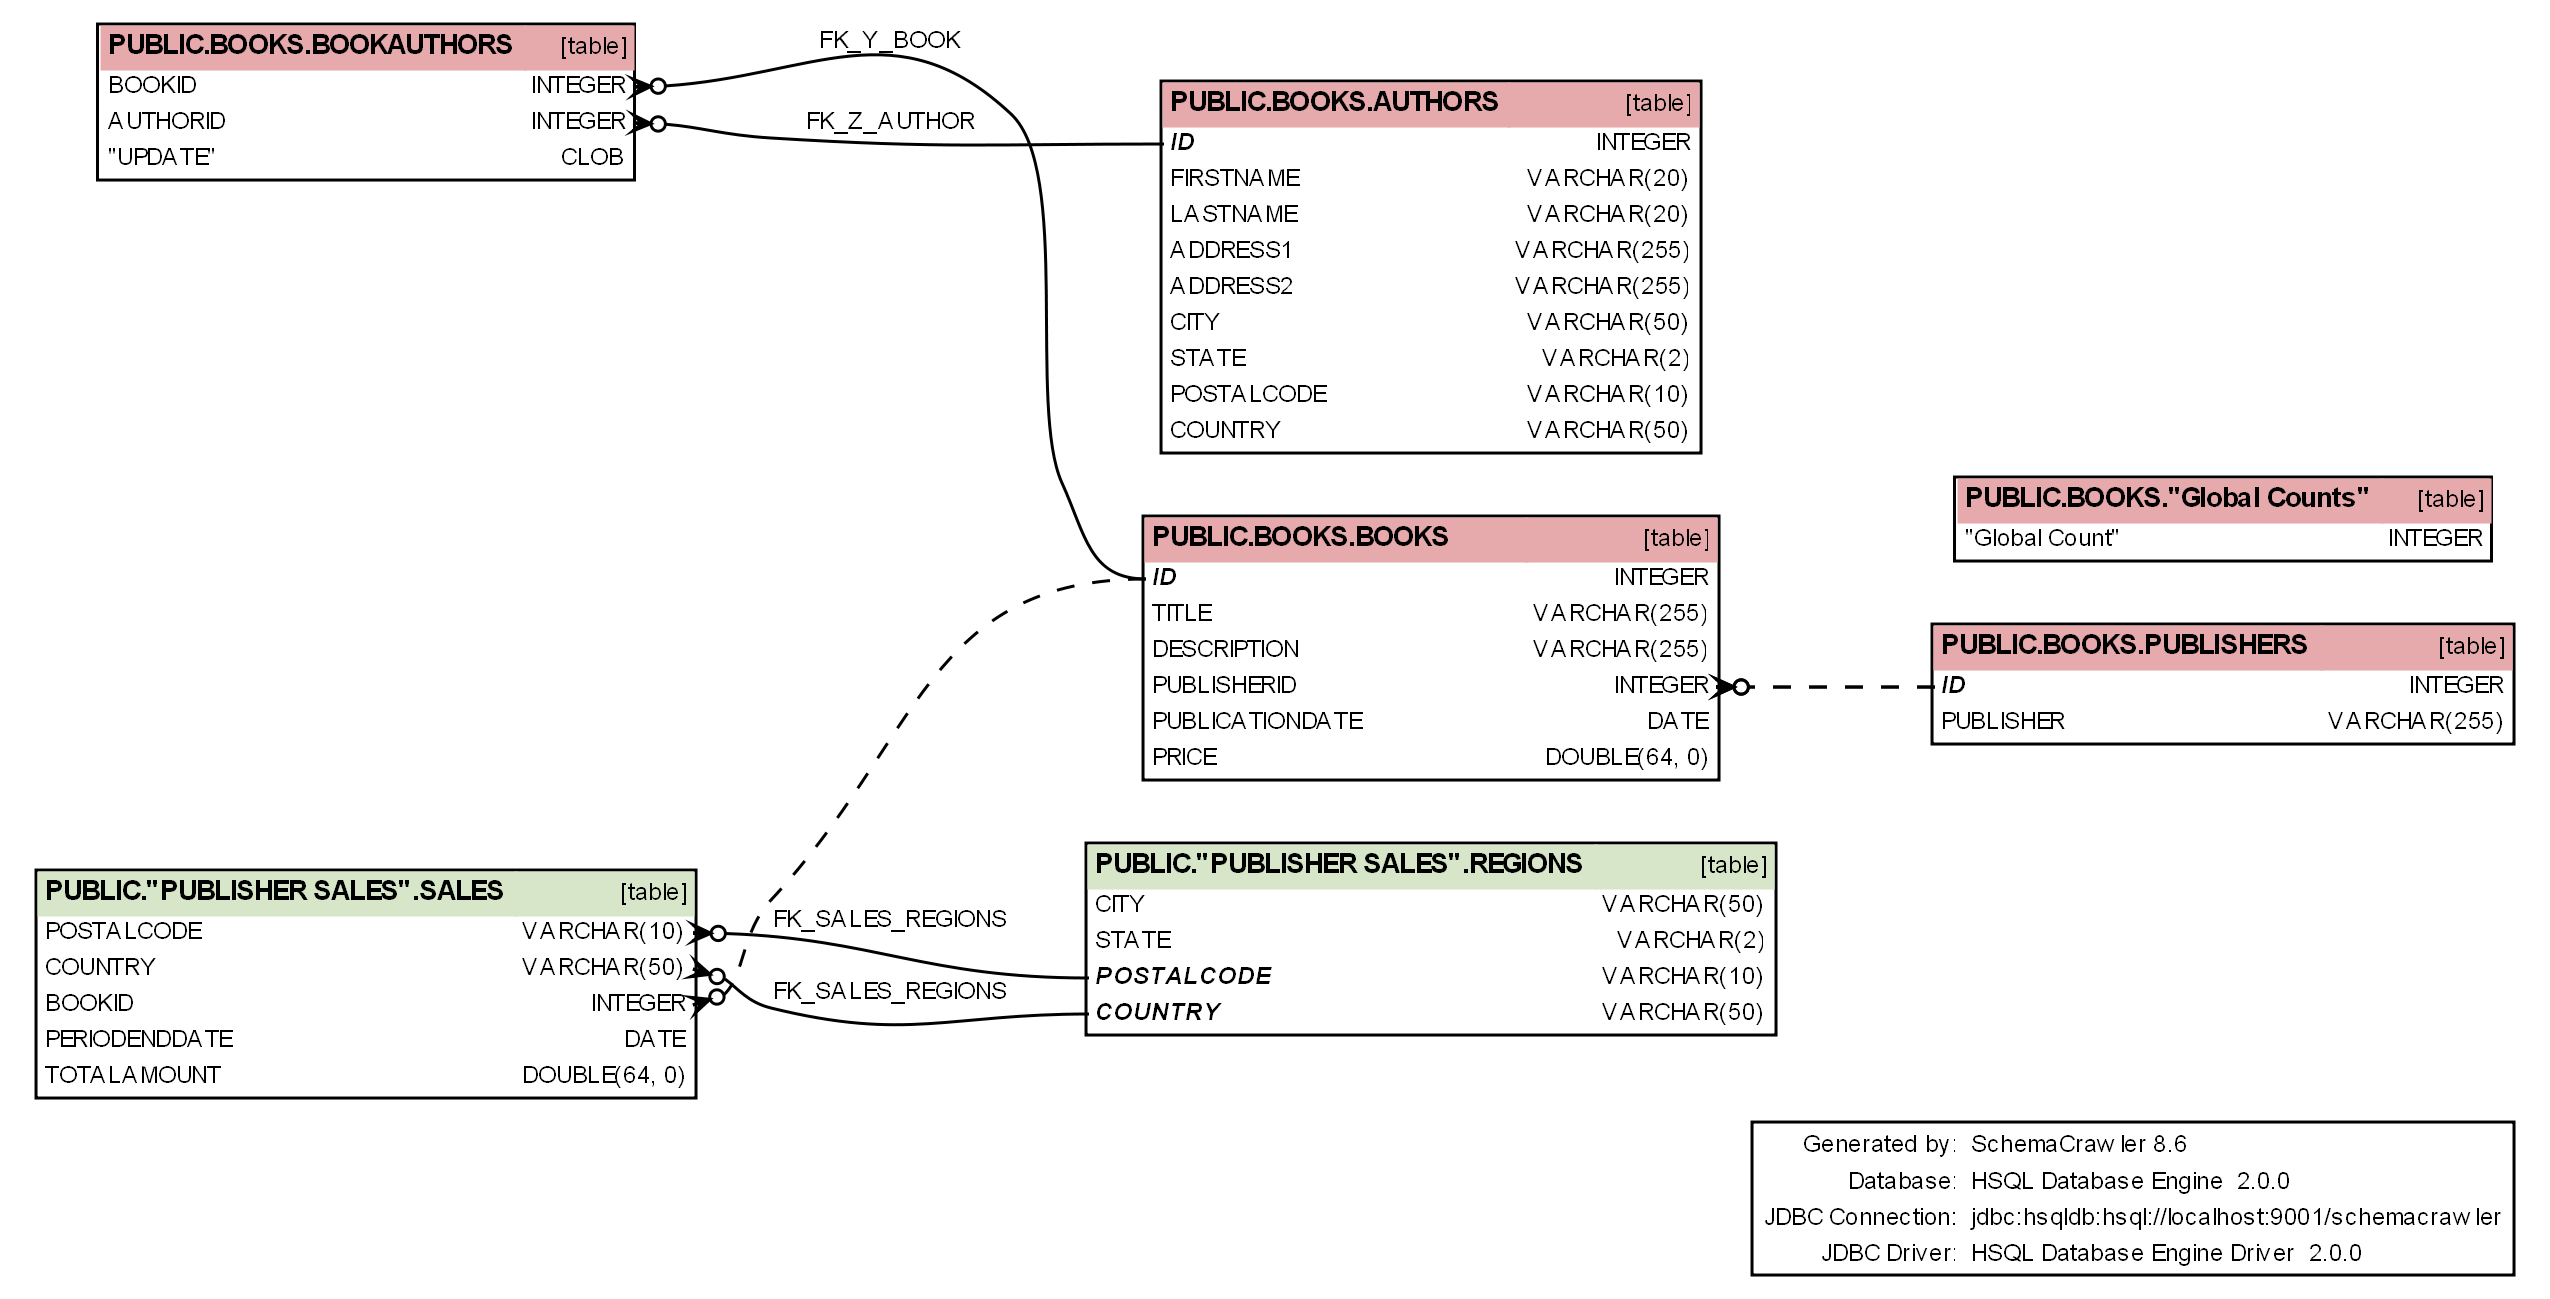
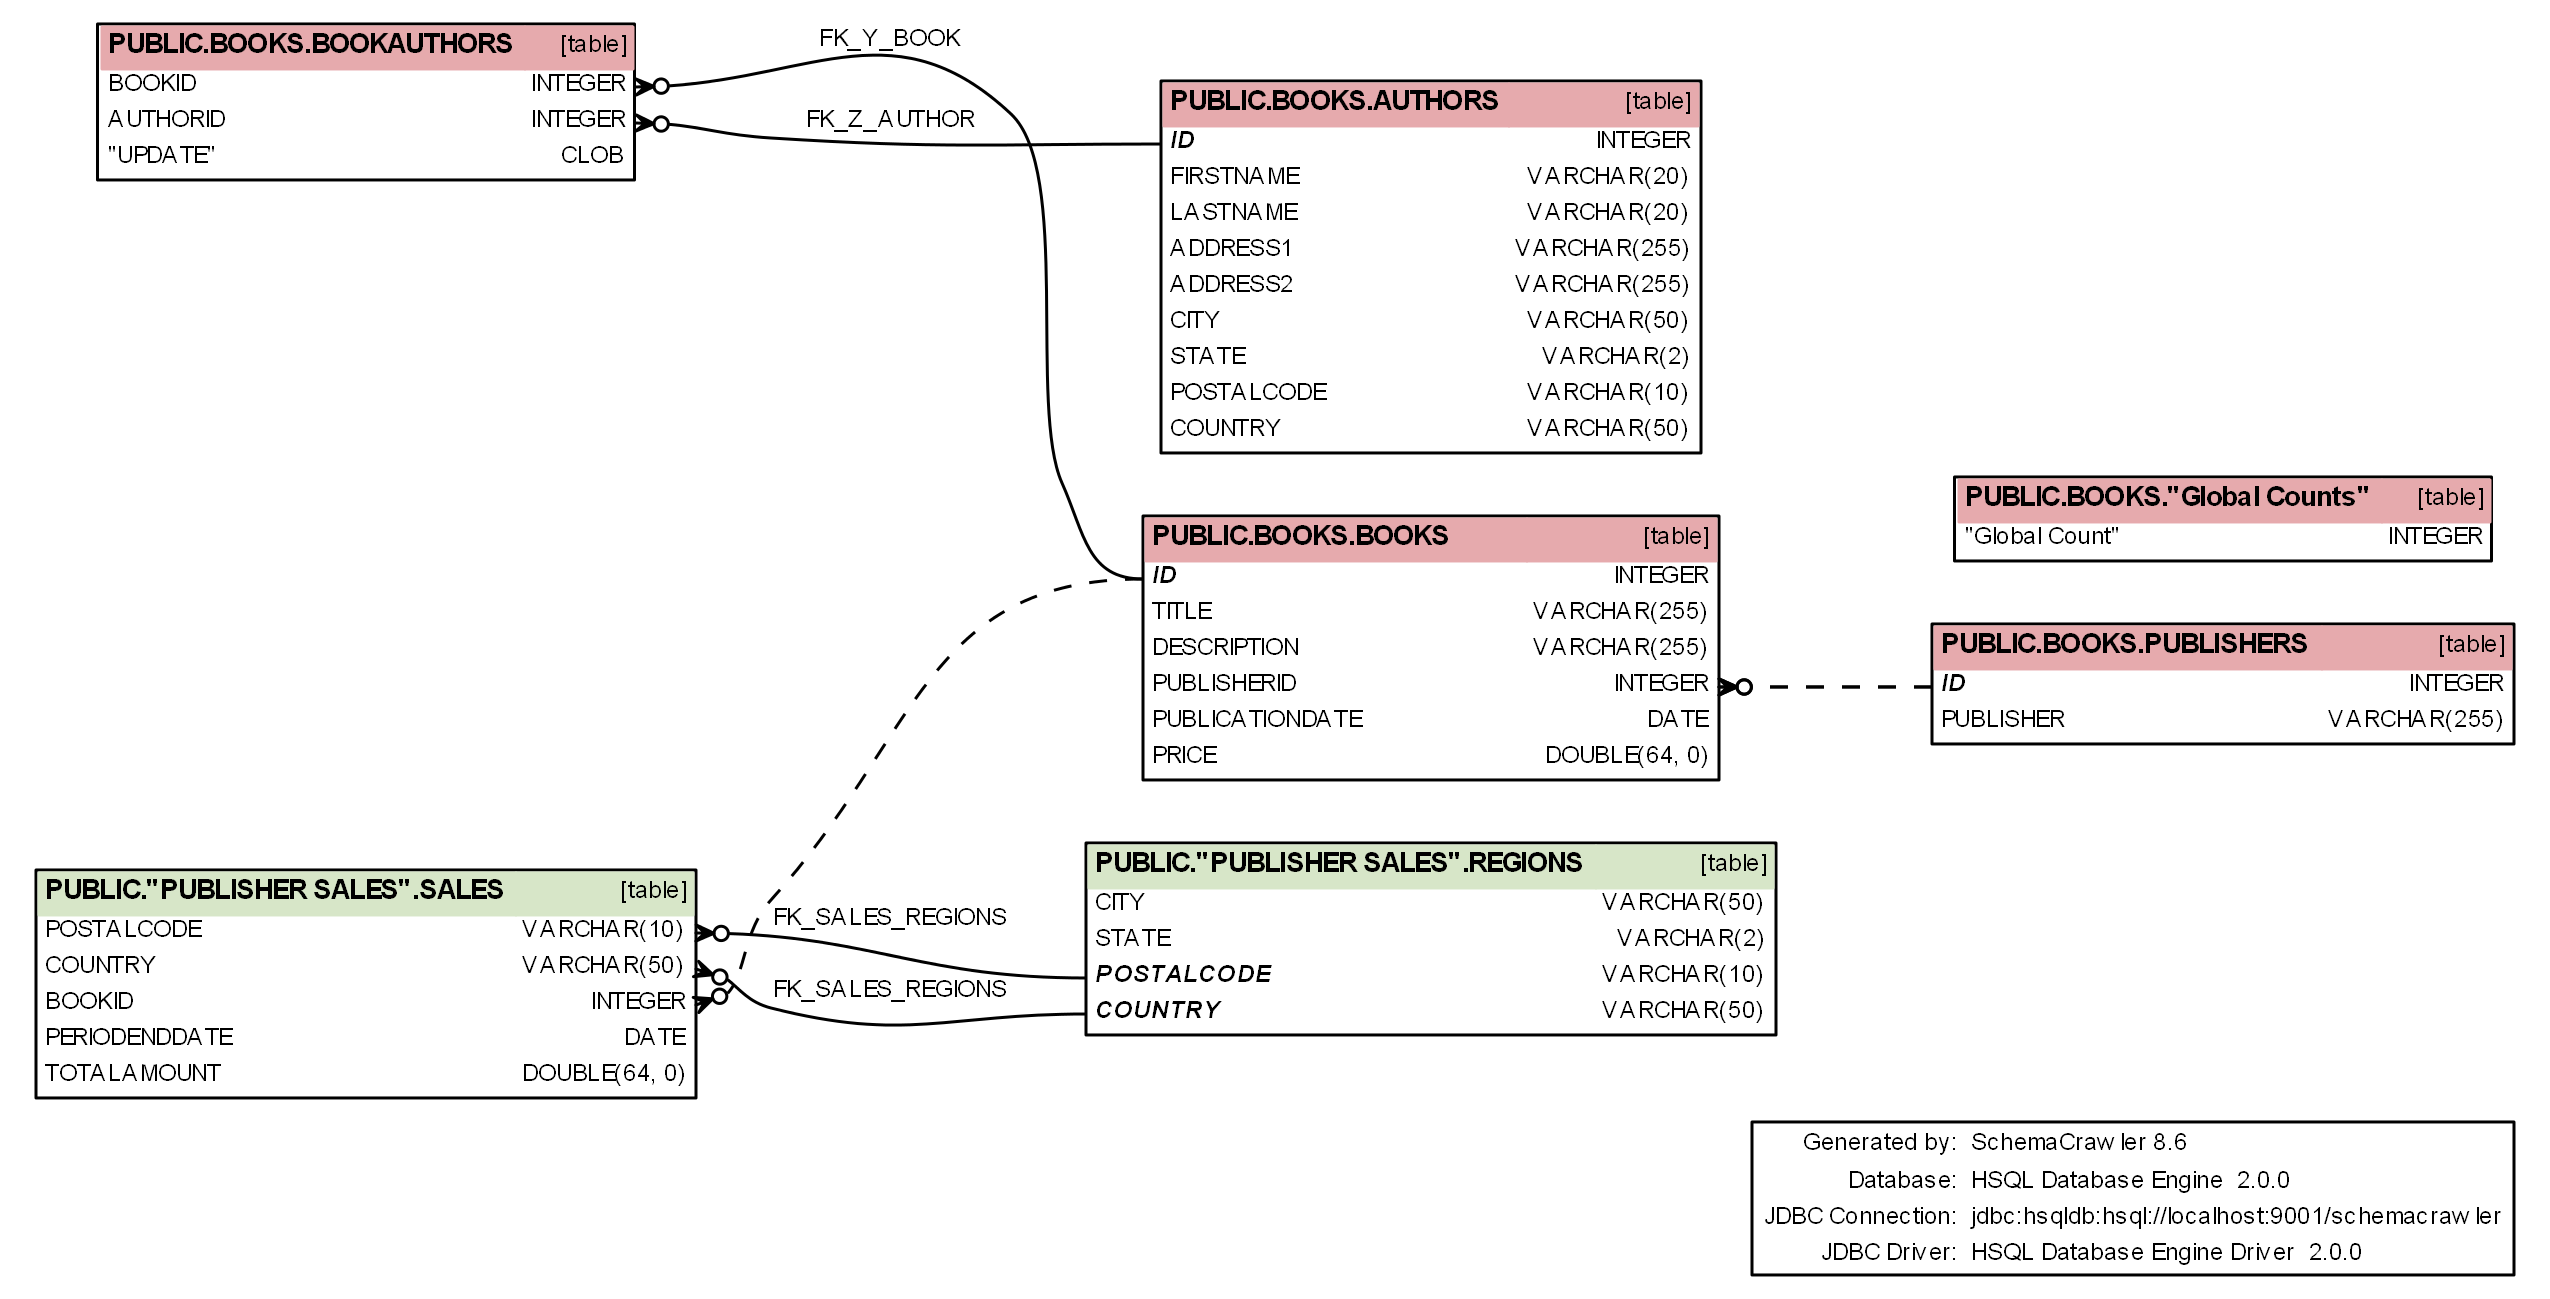
git-svn-id: svn://svn.code.sf.net/p/schemacrawler/code/trunk@2119 3243f2e7-4e1b-42d2-9742-d984016aa316

diff --git a/schemacrawler-integrations/src/test/java/schemacrawler/integration/test/IntegrationTest.java b/schemacrawler-integrations/src/test/java/schemacrawler/integration/test/IntegrationTest.java
@@ -120,7 +120,7 @@ public class IntegrationTest
     assertTrue(testOutputFile.exists());
     assertTrue(testOutputFile.length() > 0);
     final BufferedImage image = ImageIO.read(testOutputFile);
-    assertEquals(BufferedImage.TYPE_4BYTE_ABGR, image.getType());
+    assertEquals(BufferedImage.TYPE_3BYTE_BGR, image.getType());
     assertEquals(2421, image.getHeight());
     assertEquals(2517, image.getWidth());
   }
